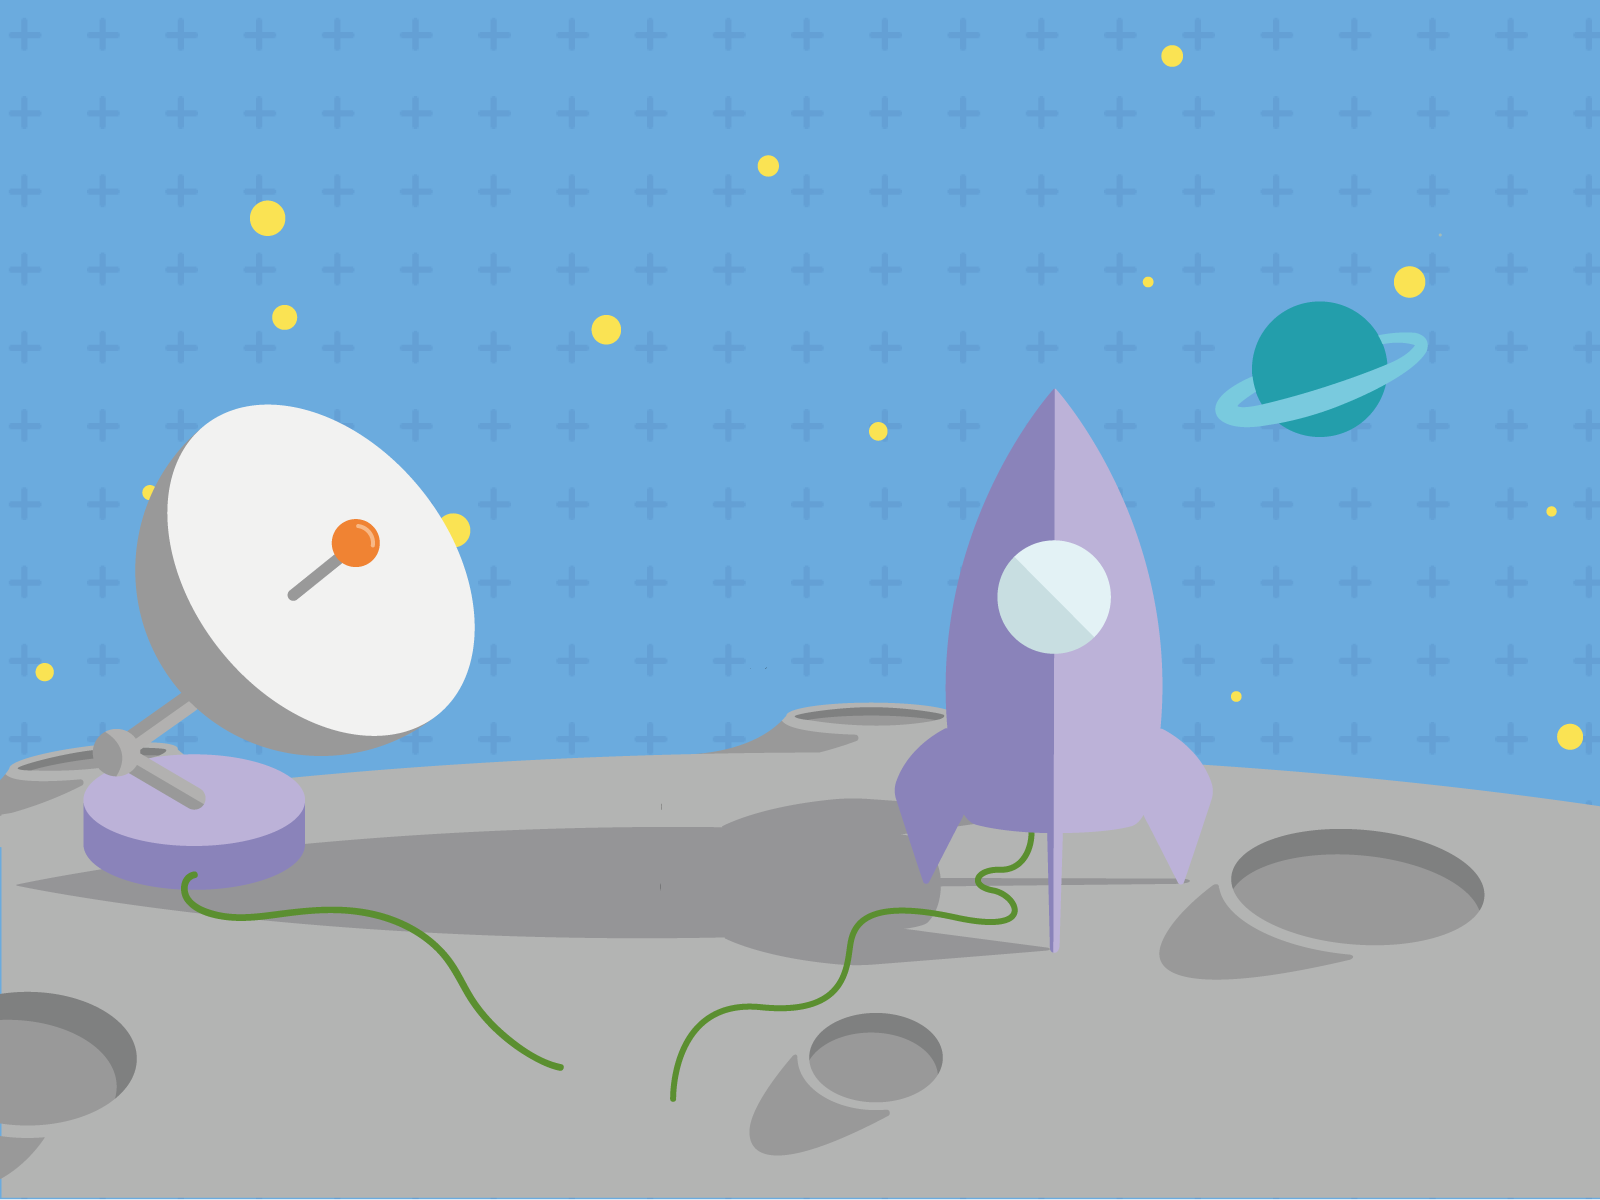
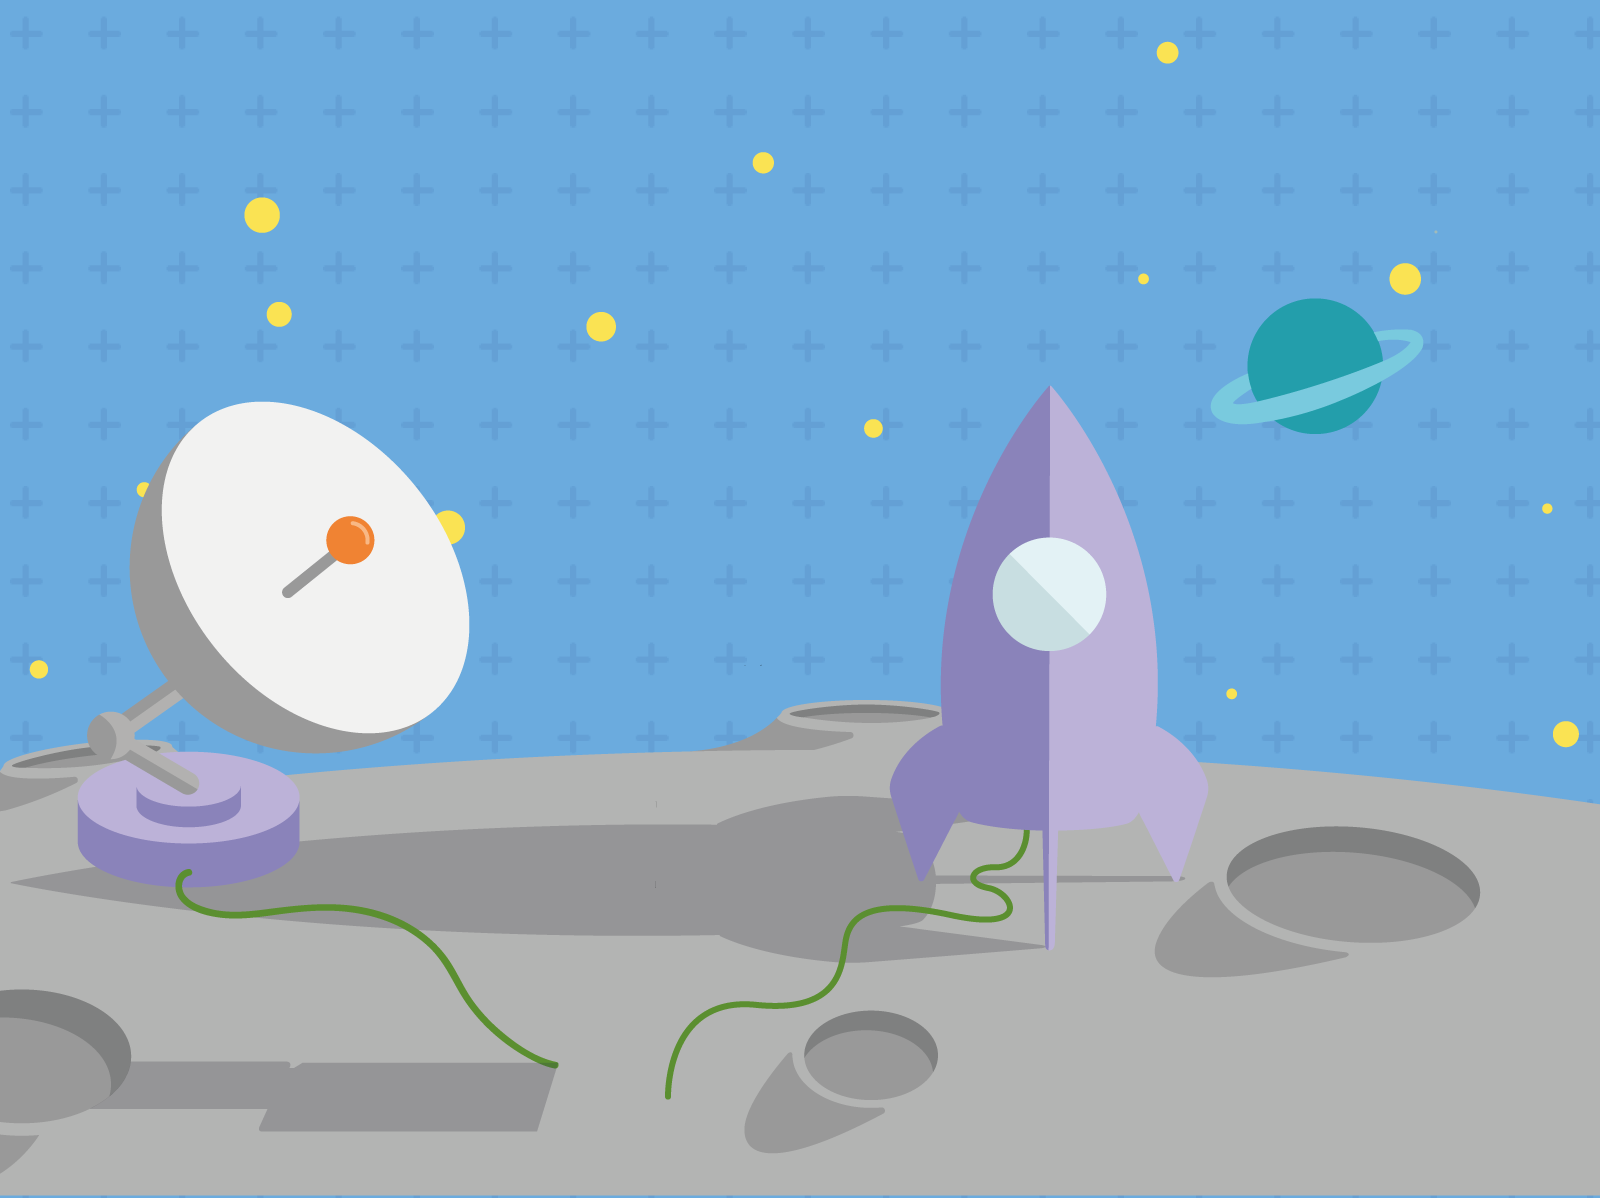
Finalising the wifi scenes

diff --git a/kano_init_flow/ui/scene.py b/kano_init_flow/ui/scene.py
@@ -4,29 +4,23 @@
 # License: http://www.gnu.org/licenses/gpl-2.0.txt GNU GPL v2
 #
 
+import copy
+
 from gi.repository import Gtk, GdkPixbuf, Gdk, GLib
 
 from kano.gtk3.cursor import attach_cursor_events
 
 # TODO: for debuging of different screen ratios
-SCREEN_WIDTH = 1280#1024 #Gdk.Screen.width()
-SCREEN_HEIGHT = 1024#768 #Gdk.Screen.height()
+SCREEN_WIDTH = Gdk.Screen.width()
+SCREEN_HEIGHT = Gdk.Screen.height()
 
-class Position(object):
+class Placement(object):
     def __init__(self, x=0, y=0, scale=1.0):
-        if x >= 0 and x <= 1:
-            self._x = x#int(x * SCREEN_WIDTH)
-        else:
-            self._x = x
+        self._x = x
+        self._y = y
 
-        if y >= 0 and y <= 1:
-            self._y = y#int(y * SCREEN_HEIGHT)
-        else:
-            self._y = y
-
+        # scale = 0.0 means fixed size
         self._scale = scale
-
-        print self._x, self._y, self._scale
 
     @property
     def x(self):
@@ -53,7 +47,7 @@ class Scene(object):
         self._screen_ratio = self._get_screen_ratio()
         self._scale_factor = self._get_screen_scale()
 
-        self._positions = {}
+        self._children = []
 
         self._overlay = Gtk.Overlay()
 
@@ -64,6 +58,10 @@ class Scene(object):
 
         self._fixed = Gtk.Fixed()
         self._overlay.add_overlay(self._fixed)
+
+        self._eb = Gtk.EventBox()
+        self._eb.add(self._overlay)
+        self._eb.connect('button-release-event', self._propagate_signal)
 
     def _get_screen_ratio(self):
         w = SCREEN_WIDTH
@@ -80,8 +78,8 @@ class Scene(object):
 
     def _get_screen_scale(self):
         if self._screen_ratio == self.RATIO_4_3:
-            return SCREEN_WIDTH / 1600.0
-        return SCREEN_WIDTH / 1920.0
+            return SCREEN_HEIGHT / 1200.0
+        return SCREEN_HEIGHT / 1080.0
 
     def set_background(self, ver_43, ver_169):
         """
@@ -104,7 +102,7 @@ class Scene(object):
     def add_widget(self, widget, pos_43, pos_169, clicked_cb=None):
         pos = pos_43 if self._screen_ratio == self.RATIO_4_3 else pos_169
 
-        if pos.scale * self._scale_factor != 1:
+        if pos.scale * self._scale_factor != 1 and pos.scale != 0:
             if widget.__class__.__name__ == "Image":
                 if widget.get_animation():
                     widget = self._scale_gif(widget, pos.scale * self._scale_factor)
@@ -120,47 +118,38 @@ class Scene(object):
             # TODO: Add custom styling to this.
             button_wrapper = Gtk.Button()
             button_wrapper.add(root_widget)
-            button_wrapper.connect('clicked', self._clicked_cb_wrapper, clicked_cb)
-            attach_cursor_events(button_wrapper)
+            button_wrapper.connect('button-release-event', self._clicked_cb_wrapper, clicked_cb)
+            #attach_cursor_events(button_wrapper)
             root_widget = button_wrapper
 
         #root_widget.connect('size-allocate', self._sprite_allocated)
-        #root_widget.set_visible(False)
-        self._positions[root_widget] = pos
         align = Gtk.Alignment.new(pos.x, pos.y, 0, 0)
-        align.connect('enter-notify-event', self._propagate_signal)
-        align.connect('leave-notify-event', self._propagate_signal)
-        align.connect('button-press-event', self._propagate_signal)
-        eb = Gtk.EventBox()
-        eb.add(root_widget)
-        eb.connect('button-press-event', self._propagate_signal)
-        align.add(eb)
-        #self._fixed.put(root_widget, 0, 0)
+        align.add(root_widget)
+        self._children.append(root_widget)
         self._overlay.add_overlay(align)
 
     def _propagate_signal(self, widget=None, event=None, data=None):
-        print widget
-        return False
-
-    def _sprite_allocated(self, widget, alloc):
-        pos = self._positions[widget]
-        print alloc.width, alloc.height
-        #GLib.idle_add(self._move_widget, widget, pos)
-        self._fixed.move(widget, pos.x, pos.y)
-        self._fixed.queue_draw()
-        widget.queue_draw()
+        for child in self._children:
+            alloc = child.get_allocation()
+            if event.x >= alloc.x and event.x <= (alloc.x + alloc.width) and \
+               event.y >= alloc.y and event.y <= (alloc.y + alloc.height):
+                ev = Gdk.Event.new(Gdk.EventType.BUTTON_RELEASE)
+                ev.send_event = True
+                ev.window = widget.get_window()
+                child.emit('button-release-event', ev)
+                break
         return True
 
     def _move_widget(self, widget, pos):
         return False
 
-    def _clicked_cb_wrapper(self, button, clicked_cb):
+    def _clicked_cb_wrapper(self, widget, event, clicked_cb):
         clicked_cb()
         return True
 
     @property
     def widget(self):
-        return self._overlay
+        return self._eb #self._overlay
 
     @staticmethod
     def _scale_pixbuf(pixbuf, scale):

diff --git a/kano_init_flow/stages/wifi/main.py b/kano_init_flow/stages/wifi/main.py
@@ -8,7 +8,7 @@ from gi.repository import Gtk
 
 
 from kano_init_flow.stage import Stage
-from kano_init_flow.ui.scene import Scene, Position
+from kano_init_flow.ui.scene import Scene, Placement
 from kano_init_flow.ui.speech_bubble import SpeechBubble
 from kano_init_flow.paths import common_media_path
 
@@ -32,6 +32,10 @@ class Wifi(Stage):
         s2 = self._setup_second_scene()
         self._ctl.main_window.push(s2.widget)
 
+    def third_step(self):
+        s3 = self._setup_third_scene()
+        self._ctl.main_window.push(s3.widget)
+
     def next_step(self):
         self._stage.ctl.next_stage()
 
@@ -42,26 +46,26 @@ class Wifi(Stage):
 
         scene.add_widget(
             Gtk.Image.new_from_file(self.media_path('character.png')),
-            Position(0.07, 0.7, 0.35),
-            Position(0.15, 0.6, 0.5)
+            Placement(0.08, 0.9, 0.45),
+            Placement(0.12, 0.9, 0.5)
         )
 
         scene.add_widget(
-            Gtk.Image.new_from_file(self.media_path('spaceman.svg')),
-            Position(0.7, 0.55, 1.0),
-            Position(0.82, 0.55, 1.5)
+            Gtk.Image.new_from_file(self.media_path('spaceman.png')),
+            Placement(0.9, 0.9, 0.65),
+            Placement(0.9, 0.9, 0.75)
         )
 
         scene.add_widget(
             SpeechBubble(text='Wicked', source=SpeechBubble.RIGHT),
-            Position(0.5, 0.5),
-            Position(0.74, 0.55)
+            Placement(0.78, 0.72),
+            Placement(0.79, 0.68)
         )
 
         scene.add_widget(
             Gtk.Image.new_from_file(self.media_path('console.gif')),
-            Position(0.37, 0.92, 0.8),
-            Position(0.31, 0.46),
+            Placement(0.35, 0.925, 0.8),
+            Placement(0.367, 0.888),
             self.second_step
         )
 
@@ -72,9 +76,54 @@ class Wifi(Stage):
         scene.set_background(common_media_path('blueprint-bg-4-3.png'),
                              common_media_path('blueprint-bg-16-9.png'))
         scene.add_widget(
-            Gtk.Image.new_from_file(common_media_path('console-large.png')),
-            Position(0.05, 0.2),
-            Position(0.3, 0.1)
+            Gtk.Image.new_from_file(self.media_path('console-large.png')),
+            Placement(0.5, 0.5, 0.0),
+            Placement(0.5, 0.5, 0.0),
+            self.third_step
+        )
+
+        """
+        x, y = img.get_size()
+        # the widget will be fixed
+        wifi_flow = WifiFlow(x, y)
+        scene.add_widget(
+            wifi_flow,
+            Placement(0.5, 0.5, 0.0),
+            Placement(0.5, 0.5, 0.0),
+            self.third_step
+        )
+        """
+
+        return scene
+
+    def _setup_third_scene(self):
+        scene = Scene()
+        scene.set_background(self.media_path('space-2-bg-4-3.png'),
+                             self.media_path('space-2-bg-16-9.png'))
+
+        scene.add_widget(
+            Gtk.Image.new_from_file(self.media_path('character.png')),
+            Placement(0.08, 0.9, 0.45),
+            Placement(0.12, 0.9, 0.5)
+        )
+
+        scene.add_widget(
+            Gtk.Image.new_from_file(self.media_path('spaceman.png')),
+            Placement(0.9, 0.9, 0.65),
+            Placement(0.9, 0.9, 0.75)
+        )
+
+        scene.add_widget(
+            Gtk.Image.new_from_file(self.media_path('rocket.gif')),
+            Placement(0.697, 0.597, 0.8),
+            Placement(0.695, 0.275),
+            self.first_step
+        )
+
+        scene.add_widget(
+            SpeechBubble(text='Wicked', source=SpeechBubble.RIGHT),
+            Placement(0.78, 0.72),
+            Placement(0.79, 0.68)
         )
 
         return scene
